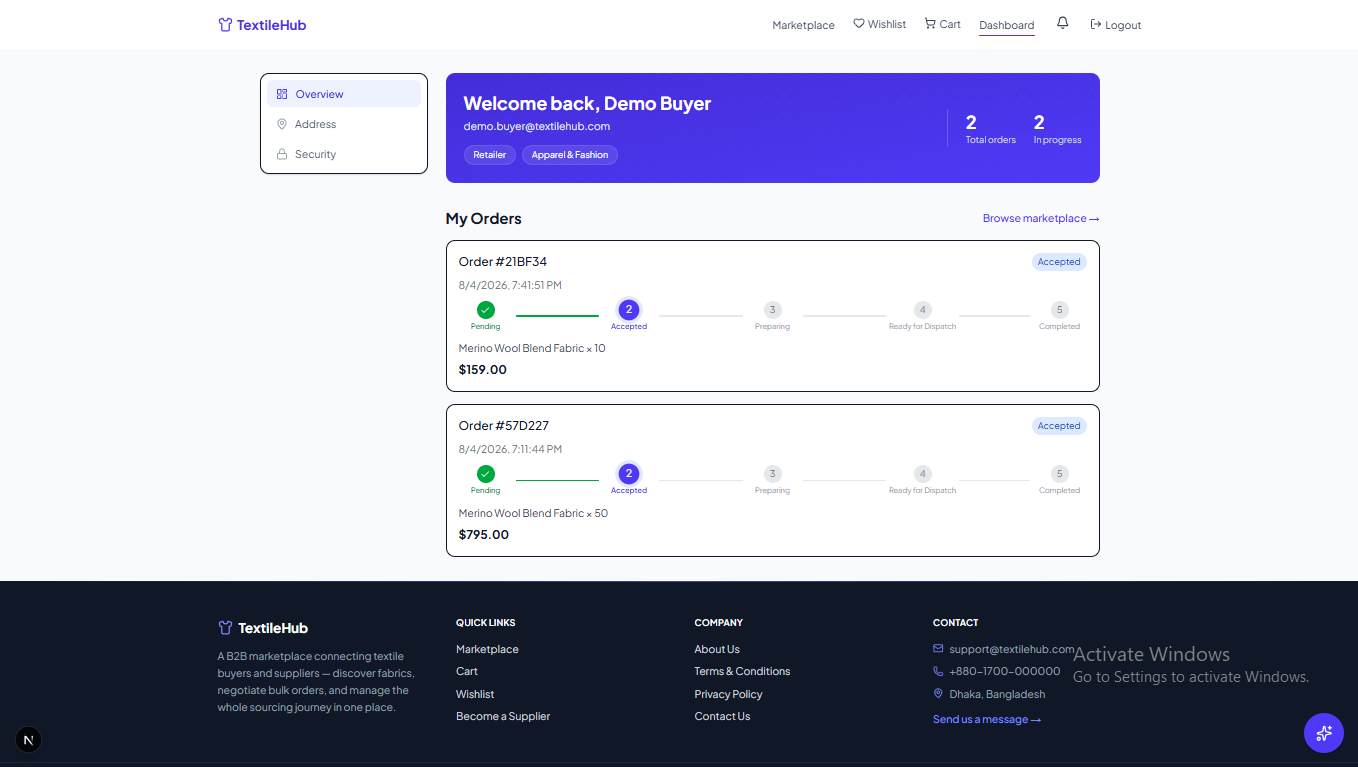
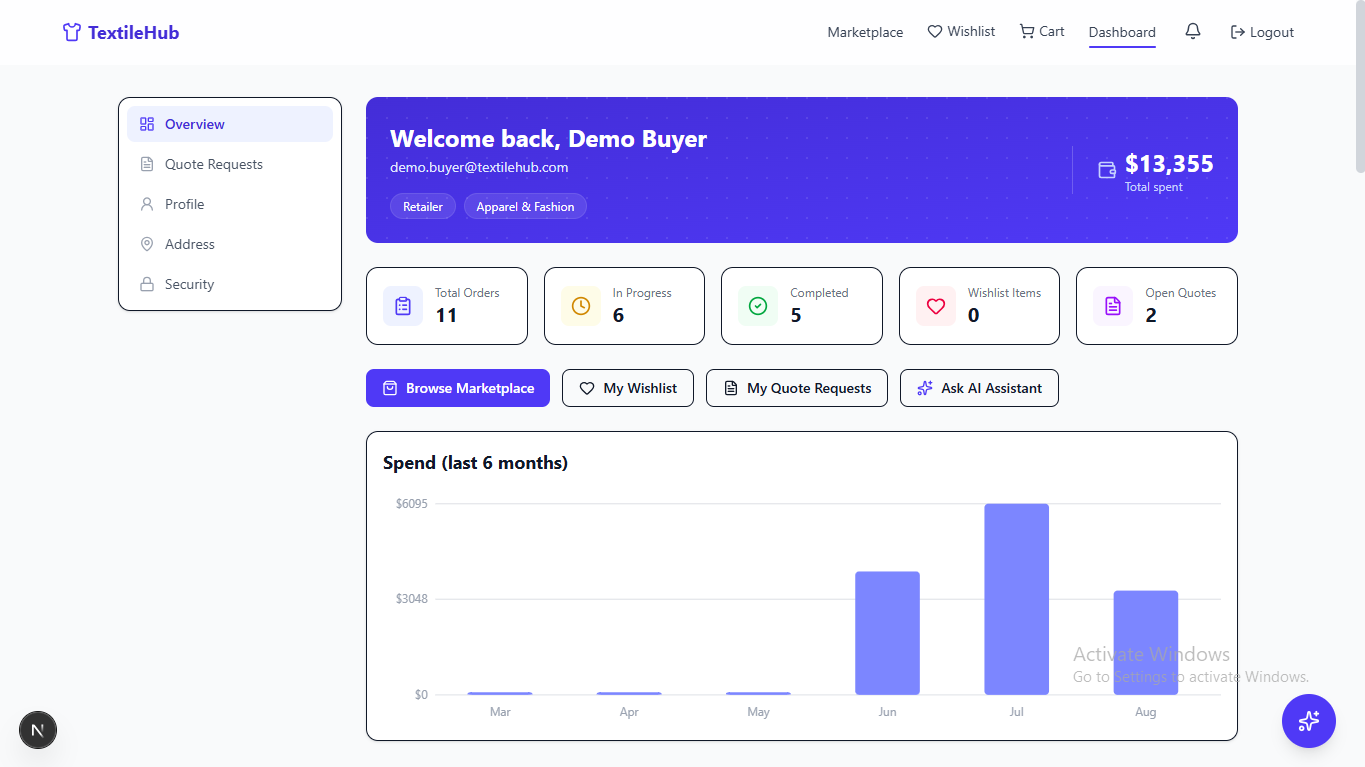
update readme with screenshoots

diff --git a/README.md b/README.md
@@ -28,13 +28,17 @@ can suspend it or change its role, so it always stays available for grading/demo
 |---|---|
 | ![Homepage](./client/imgs/homepage.png) | ![Product detail](./client/imgs/product-details.png) |
 
+| New Arrival | Best Seller |
+|---|---|
+| ![New Arrival](./client/imgs/new-arrival.png) | ![Best Seller](./client/imgs/best-seller.png) |
+
 | Buyer Dashboard | Supplier Dashboard |
 |---|---|
 | ![Buyer dashboard](./client/imgs/buyer-dashboard.png) | ![Supplier dashboard](./client/imgs/supplier-dashboard.png) |
 
-| New Arrival | Best Seller |
+| Admin Dashboard | AI Assistant on Onboarding |
 |---|---|
-| ![New Arrival](./client/imgs/new-arrival.png) | ![Best Seller](./client/imgs/best-seller.png) |
+| ![Admin Dashboard](./client/imgs/admin-dashboard.png) | ![AI Assistant on Onboarding](./client/imgs/ai-assistant-onboarding.png) |
 
 | Quote Request | Recently View Products |
 |---|---|
